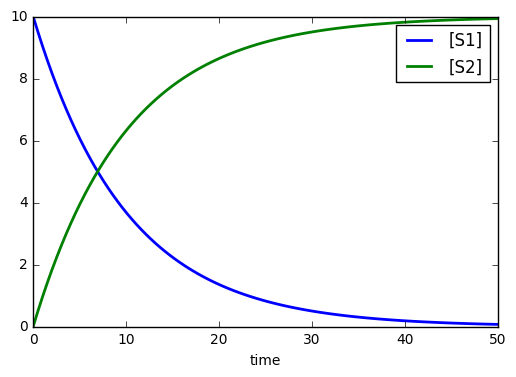
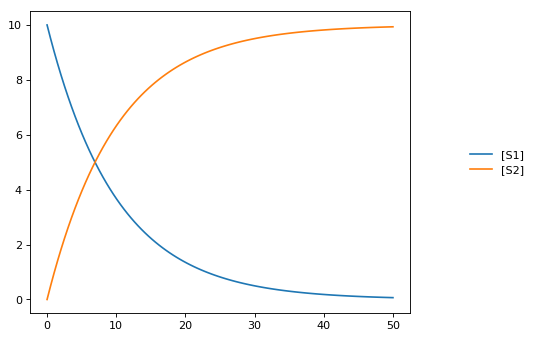
add generated files

diff --git a/docs/_notebooks/core/introduction.rst b/docs/_notebooks/core/introduction.rst
@@ -1,9 +1,16 @@
 
+Back to the main `Index <../index.ipynb>`__
 
 Simple Example
-~~~~~~~~~~~~~~
+--------------
 
-.. code:: python
+This shows how to set up a simple model in Tellurium and solve it as an
+ODE. Tellurium uses a human-readable representation of SBML models
+called Antimony. The Antimony code for this example contains a single
+reaction with associated kinetics. After creating the Antimony string,
+use the ``loada`` function to load it into the simulator.
+
+.. code:: ipython3
 
     import tellurium as te
     r = te.loada('S1 -> S2; k1*S1; k1 = 0.1; S1 = 10')
@@ -12,15 +19,18 @@ Simple Example
 
 
 
-.. image:: _notebooks/core/introduction_files/introduction_2_0.png
+.. image:: introduction_files/introduction_2_0.png
 
 
 More Complex Example
-~~~~~~~~~~~~~~~~~~~~
+--------------------
 
-Stochastic simulation of a linear chain.
+Tellurium can also handle stochastic models. This example shows how to
+select Tellurium's stochastic solver. The underlying simulation engine
+used by Tellurium implements a Gibson direct method for simulating this
+model.
 
-.. code:: python
+.. code:: ipython3
 
     import tellurium as te
     import numpy as np
@@ -36,31 +46,38 @@ Stochastic simulation of a linear chain.
         S1 = 100;
     ''')
     
-    # set integrator, seed and selections for output
-    r.setIntegrator('gillespie')
-    r.setSeed(1234)
-    r.selections = ['time'] + r.getBoundarySpeciesIds() + r.getFloatingSpeciesIds()
-    r.variable_step_size = False
+    # use a stochastic solver
+    r.integrator = 'gillespie'
+    r.integrator.seed = 1234
+    # selections specifies the output variables in a simulation
+    selections = ['time'] + r.getBoundarySpeciesIds() + r.getFloatingSpeciesIds()
+    r.integrator.variable_step_size = False
     
     # run repeated simulation
     Ncol = len(r.selections)
     Nsim = 30
     points = 101
     s_sum = np.zeros(shape=[points, Ncol])
+    #s_sum = r.simulate(0, 50, points, selections=selections)
     for k in range(Nsim):
         r.resetToOrigin()
-        s = r.simulate(0, 50, points)
+        s = r.simulate(0, 50, points, selections=selections)
         s_sum += s
         # no legend, do not show
-        r.plot(s, show=False, loc=None, alpha=0.4, linewidth=1.0)
-        
+        r.plot(s, alpha=0.5, show=False)
+    #r.show()
     # add mean curve, legend, show everything and set labels, titels, ...
-    s_mean = s_sum/Nsim
-    r.plot(s_mean, loc='upper right', show=True, linewidth=3.0,
-           title="Stochastic simulation", xlabel="time", ylabel="concentration", grid=True);
+    te.plot(s[:,0], s_sum[:,1:]/Nsim, colnames=selections, title="Stochastic simulation", xtitle="time", ytitle="concentration")
 
 
 
-.. image:: _notebooks/core/introduction_files/introduction_4_0.png
 
+.. parsed-literal::
+
+    <tellurium.plotting.engine_mpl.MatplotlibFigure at 0x7f16fbd0d908>
+
+
+
+
+.. image:: introduction_files/introduction_4_1.png
 
